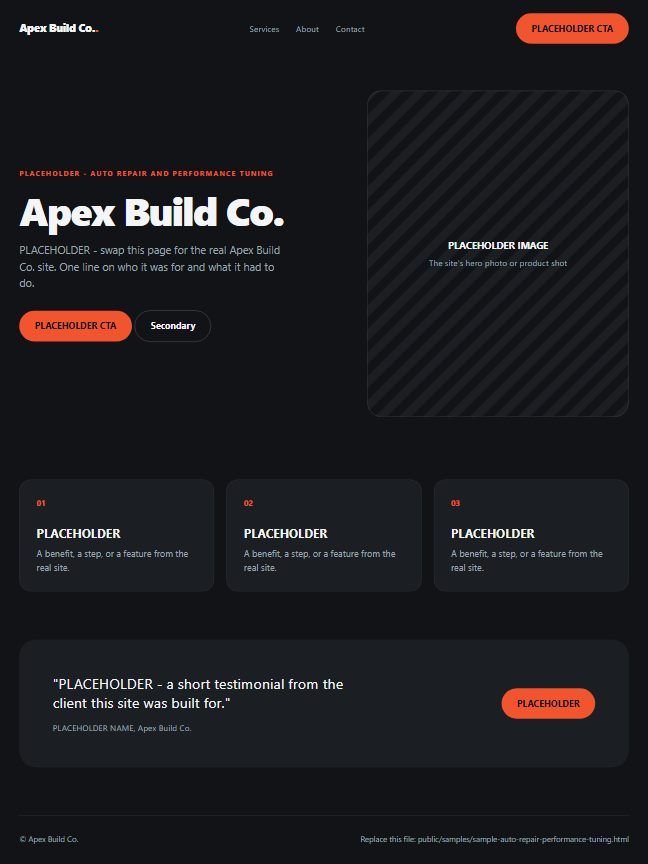
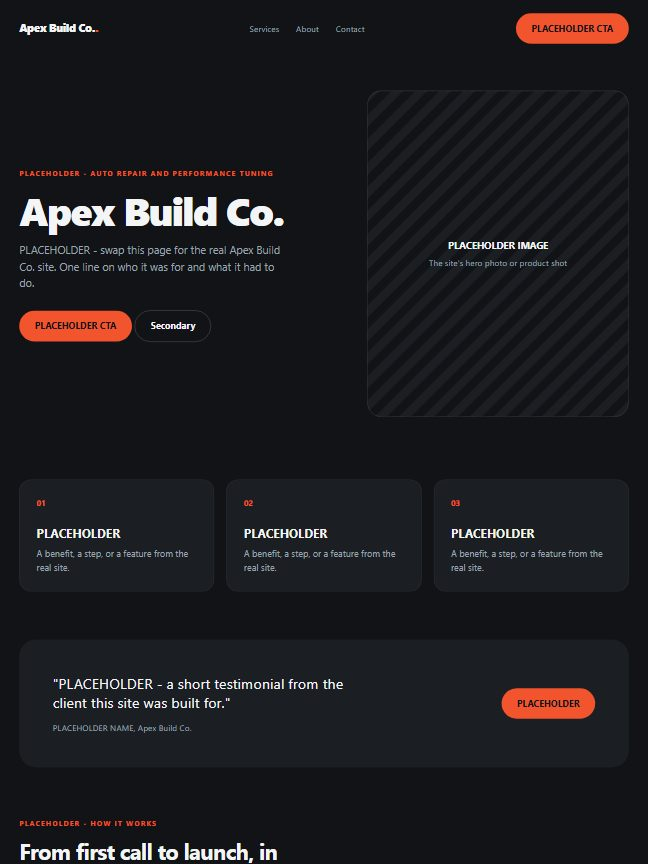
feat: longer sample pages and a tall screenshot of each for the Funnels card
make-sites.mjs adds process, services, work, pricing, FAQ and a closing band,
so each stand-in page runs about three and a half screens. make-thumbs.mjs
also writes thumbs/tall/ (the page up to four screens, 432px wide), and
every Site carries its `tall` path.

Changed region(s): [[0.0309, 0.9375, 0.4321, 1.0], [0.5556, 0.9688, 0.8951, 1.0], [0.9259, 0.9688, 0.9568, 1.0]]

diff --git a/public/samples/sample-auto-repair-performance-tuning.html b/public/samples/sample-auto-repair-performance-tuning.html
@@ -25,8 +25,19 @@ p.lede{font-size:18px;color:#9AA3AE;max-width:46ch;margin:22px 0 32px}
 .band{background:#1B1F24;border-radius:28px;padding:56px;display:grid;grid-template-columns:1fr auto;gap:32px;align-items:center;margin-bottom:80px}
 .quote{font-size:24px;line-height:1.35;max-width:40ch}
 .who{margin-top:16px;color:#9AA3AE;font-size:14px}
+.sec{padding:0 0 80px}
+.sec h2{font-size:clamp(28px,3.4vw,40px);letter-spacing:-.03em;line-height:1.1;margin-bottom:28px;max-width:22ch}
+.steps{display:grid;grid-template-columns:repeat(4,1fr);gap:16px}
+.split{display:grid;grid-template-columns:1fr 1fr;gap:20px}
+.split .shot{aspect-ratio:16/10}
+.tiers{display:grid;grid-template-columns:repeat(3,1fr);gap:20px}
+.tier .price{font-size:34px;font-weight:800;letter-spacing:-.03em;margin:10px 0 14px}
+.tier ul{list-style:none;color:#9AA3AE;font-size:15px;display:grid;gap:8px;margin-bottom:24px}
+.tier--main{border-color:#F2542D}
+.faq{display:grid;gap:12px;max-width:760px}
+.faq .card h3{font-size:17px}
 footer{border-top:1px solid #9AA3AE33;padding:28px 0 40px;color:#9AA3AE;font-size:13px;display:flex;justify-content:space-between}
-@media (max-width:760px){.hero,.band{grid-template-columns:1fr}.row{grid-template-columns:1fr}.links{display:none}}
+@media (max-width:760px){.hero,.band,.split{grid-template-columns:1fr}.row,.steps,.tiers{grid-template-columns:1fr}.links{display:none}}
 </style></head>
 <body><div class="wrap">
 <nav><span class="logo">Apex Build Co.<b>.</b></span>
@@ -41,5 +52,17 @@ footer{border-top:1px solid #9AA3AE33;padding:28px 0 40px;color:#9AA3AE;font-siz
 <div class="row"><div class="card"><div class="n">01</div><h3>PLACEHOLDER</h3><p>A benefit, a step, or a feature from the real site.</p></div><div class="card"><div class="n">02</div><h3>PLACEHOLDER</h3><p>A benefit, a step, or a feature from the real site.</p></div><div class="card"><div class="n">03</div><h3>PLACEHOLDER</h3><p>A benefit, a step, or a feature from the real site.</p></div></div>
 <div class="band"><div><p class="quote">"PLACEHOLDER - a short testimonial from the client this site was built for."</p>
 <p class="who">PLACEHOLDER NAME, Apex Build Co.</p></div><a class="btn" href="#">PLACEHOLDER</a></div>
+<section class="sec"><span class="tag">PLACEHOLDER - How it works</span><h2>From first call to launch, in four steps.</h2>
+<div class="steps"><div class="card"><div class="n">01</div><h3>Discover</h3><p>PLACEHOLDER - what happens at this step.</p></div><div class="card"><div class="n">02</div><h3>Plan</h3><p>PLACEHOLDER - what happens at this step.</p></div><div class="card"><div class="n">03</div><h3>Build</h3><p>PLACEHOLDER - what happens at this step.</p></div><div class="card"><div class="n">04</div><h3>Launch</h3><p>PLACEHOLDER - what happens at this step.</p></div></div></section>
+<section class="sec"><span class="tag">PLACEHOLDER - Services</span><h2>What Apex Build Co. offers.</h2>
+<div class="split"><div class="shot"><div><strong>PLACEHOLDER IMAGE</strong>A service photo</div></div>
+<div class="shot"><div><strong>PLACEHOLDER IMAGE</strong>Another service photo</div></div></div></section>
+<section class="sec"><span class="tag">PLACEHOLDER - Recent work</span><h2>Projects Apex Build Co. is proud of.</h2>
+<div class="row" style="padding:0"><div class="shot"><div><strong>PLACEHOLDER IMAGE</strong>Project photo 01</div></div><div class="shot"><div><strong>PLACEHOLDER IMAGE</strong>Project photo 02</div></div><div class="shot"><div><strong>PLACEHOLDER IMAGE</strong>Project photo 03</div></div></div></section>
+<section class="sec"><span class="tag">PLACEHOLDER - Pricing</span><h2>Simple, clear pricing.</h2>
+<div class="tiers"><div class="card tier"><h3>Starter</h3><div class="price">$PLACEHOLDER</div><ul><li>PLACEHOLDER feature</li><li>PLACEHOLDER feature</li><li>PLACEHOLDER feature</li></ul><a class="btn btn--ghost" href="#">Choose</a></div><div class="card tier tier--main"><h3>Standard</h3><div class="price">$PLACEHOLDER</div><ul><li>PLACEHOLDER feature</li><li>PLACEHOLDER feature</li><li>PLACEHOLDER feature</li></ul><a class="btn" href="#">Choose</a></div><div class="card tier"><h3>Premium</h3><div class="price">$PLACEHOLDER</div><ul><li>PLACEHOLDER feature</li><li>PLACEHOLDER feature</li><li>PLACEHOLDER feature</li></ul><a class="btn btn--ghost" href="#">Choose</a></div></div></section>
+<section class="sec"><span class="tag">PLACEHOLDER - Questions</span><h2>Frequently asked.</h2>
+<div class="faq"><div class="card"><h3>PLACEHOLDER - a question clients ask?</h3><p>PLACEHOLDER - the short, honest answer.</p></div><div class="card"><h3>PLACEHOLDER - a question clients ask?</h3><p>PLACEHOLDER - the short, honest answer.</p></div><div class="card"><h3>PLACEHOLDER - a question clients ask?</h3><p>PLACEHOLDER - the short, honest answer.</p></div><div class="card"><h3>PLACEHOLDER - a question clients ask?</h3><p>PLACEHOLDER - the short, honest answer.</p></div></div></section>
+<div class="band"><div><p class="quote">PLACEHOLDER - the closing call to action.</p><p class="who">Apex Build Co.</p></div><a class="btn" href="#">PLACEHOLDER CTA</a></div>
 <footer><span>&copy; Apex Build Co.</span><span>Replace this file: public/samples/sample-auto-repair-performance-tuning.html</span></footer>
 </div></body></html>

diff --git a/public/samples/sample-therapy-clinic.html b/public/samples/sample-therapy-clinic.html
@@ -25,8 +25,19 @@ p.lede{font-size:18px;color:#6A7C77;max-width:46ch;margin:22px 0 32px}
 .band{background:#FFFFFF;border-radius:28px;padding:56px;display:grid;grid-template-columns:1fr auto;gap:32px;align-items:center;margin-bottom:80px}
 .quote{font-size:24px;line-height:1.35;max-width:40ch}
 .who{margin-top:16px;color:#6A7C77;font-size:14px}
+.sec{padding:0 0 80px}
+.sec h2{font-size:clamp(28px,3.4vw,40px);letter-spacing:-.03em;line-height:1.1;margin-bottom:28px;max-width:22ch}
+.steps{display:grid;grid-template-columns:repeat(4,1fr);gap:16px}
+.split{display:grid;grid-template-columns:1fr 1fr;gap:20px}
+.split .shot{aspect-ratio:16/10}
+.tiers{display:grid;grid-template-columns:repeat(3,1fr);gap:20px}
+.tier .price{font-size:34px;font-weight:800;letter-spacing:-.03em;margin:10px 0 14px}
+.tier ul{list-style:none;color:#6A7C77;font-size:15px;display:grid;gap:8px;margin-bottom:24px}
+.tier--main{border-color:#3C8D7A}
+.faq{display:grid;gap:12px;max-width:760px}
+.faq .card h3{font-size:17px}
 footer{border-top:1px solid #6A7C7733;padding:28px 0 40px;color:#6A7C77;font-size:13px;display:flex;justify-content:space-between}
-@media (max-width:760px){.hero,.band{grid-template-columns:1fr}.row{grid-template-columns:1fr}.links{display:none}}
+@media (max-width:760px){.hero,.band,.split{grid-template-columns:1fr}.row,.steps,.tiers{grid-template-columns:1fr}.links{display:none}}
 </style></head>
 <body><div class="wrap">
 <nav><span class="logo">One Hour Therapy<b>.</b></span>
@@ -41,5 +52,17 @@ footer{border-top:1px solid #6A7C7733;padding:28px 0 40px;color:#6A7C77;font-siz
 <div class="row"><div class="card"><div class="n">01</div><h3>PLACEHOLDER</h3><p>A benefit, a step, or a feature from the real site.</p></div><div class="card"><div class="n">02</div><h3>PLACEHOLDER</h3><p>A benefit, a step, or a feature from the real site.</p></div><div class="card"><div class="n">03</div><h3>PLACEHOLDER</h3><p>A benefit, a step, or a feature from the real site.</p></div></div>
 <div class="band"><div><p class="quote">"PLACEHOLDER - a short testimonial from the client this site was built for."</p>
 <p class="who">PLACEHOLDER NAME, One Hour Therapy</p></div><a class="btn" href="#">PLACEHOLDER</a></div>
+<section class="sec"><span class="tag">PLACEHOLDER - How it works</span><h2>From first call to launch, in four steps.</h2>
+<div class="steps"><div class="card"><div class="n">01</div><h3>Discover</h3><p>PLACEHOLDER - what happens at this step.</p></div><div class="card"><div class="n">02</div><h3>Plan</h3><p>PLACEHOLDER - what happens at this step.</p></div><div class="card"><div class="n">03</div><h3>Build</h3><p>PLACEHOLDER - what happens at this step.</p></div><div class="card"><div class="n">04</div><h3>Launch</h3><p>PLACEHOLDER - what happens at this step.</p></div></div></section>
+<section class="sec"><span class="tag">PLACEHOLDER - Services</span><h2>What One Hour Therapy offers.</h2>
+<div class="split"><div class="shot"><div><strong>PLACEHOLDER IMAGE</strong>A service photo</div></div>
+<div class="shot"><div><strong>PLACEHOLDER IMAGE</strong>Another service photo</div></div></div></section>
+<section class="sec"><span class="tag">PLACEHOLDER - Recent work</span><h2>Projects One Hour Therapy is proud of.</h2>
+<div class="row" style="padding:0"><div class="shot"><div><strong>PLACEHOLDER IMAGE</strong>Project photo 01</div></div><div class="shot"><div><strong>PLACEHOLDER IMAGE</strong>Project photo 02</div></div><div class="shot"><div><strong>PLACEHOLDER IMAGE</strong>Project photo 03</div></div></div></section>
+<section class="sec"><span class="tag">PLACEHOLDER - Pricing</span><h2>Simple, clear pricing.</h2>
+<div class="tiers"><div class="card tier"><h3>Starter</h3><div class="price">$PLACEHOLDER</div><ul><li>PLACEHOLDER feature</li><li>PLACEHOLDER feature</li><li>PLACEHOLDER feature</li></ul><a class="btn btn--ghost" href="#">Choose</a></div><div class="card tier tier--main"><h3>Standard</h3><div class="price">$PLACEHOLDER</div><ul><li>PLACEHOLDER feature</li><li>PLACEHOLDER feature</li><li>PLACEHOLDER feature</li></ul><a class="btn" href="#">Choose</a></div><div class="card tier"><h3>Premium</h3><div class="price">$PLACEHOLDER</div><ul><li>PLACEHOLDER feature</li><li>PLACEHOLDER feature</li><li>PLACEHOLDER feature</li></ul><a class="btn btn--ghost" href="#">Choose</a></div></div></section>
+<section class="sec"><span class="tag">PLACEHOLDER - Questions</span><h2>Frequently asked.</h2>
+<div class="faq"><div class="card"><h3>PLACEHOLDER - a question clients ask?</h3><p>PLACEHOLDER - the short, honest answer.</p></div><div class="card"><h3>PLACEHOLDER - a question clients ask?</h3><p>PLACEHOLDER - the short, honest answer.</p></div><div class="card"><h3>PLACEHOLDER - a question clients ask?</h3><p>PLACEHOLDER - the short, honest answer.</p></div><div class="card"><h3>PLACEHOLDER - a question clients ask?</h3><p>PLACEHOLDER - the short, honest answer.</p></div></div></section>
+<div class="band"><div><p class="quote">PLACEHOLDER - the closing call to action.</p><p class="who">One Hour Therapy</p></div><a class="btn" href="#">PLACEHOLDER CTA</a></div>
 <footer><span>&copy; One Hour Therapy</span><span>Replace this file: public/samples/sample-therapy-clinic.html</span></footer>
 </div></body></html>

diff --git a/public/samples/sample-moving-company.html b/public/samples/sample-moving-company.html
@@ -25,8 +25,19 @@ p.lede{font-size:18px;color:#667085;max-width:46ch;margin:22px 0 32px}
 .band{background:#F2F5FA;border-radius:28px;padding:56px;display:grid;grid-template-columns:1fr auto;gap:32px;align-items:center;margin-bottom:80px}
 .quote{font-size:24px;line-height:1.35;max-width:40ch}
 .who{margin-top:16px;color:#667085;font-size:14px}
+.sec{padding:0 0 80px}
+.sec h2{font-size:clamp(28px,3.4vw,40px);letter-spacing:-.03em;line-height:1.1;margin-bottom:28px;max-width:22ch}
+.steps{display:grid;grid-template-columns:repeat(4,1fr);gap:16px}
+.split{display:grid;grid-template-columns:1fr 1fr;gap:20px}
+.split .shot{aspect-ratio:16/10}
+.tiers{display:grid;grid-template-columns:repeat(3,1fr);gap:20px}
+.tier .price{font-size:34px;font-weight:800;letter-spacing:-.03em;margin:10px 0 14px}
+.tier ul{list-style:none;color:#667085;font-size:15px;display:grid;gap:8px;margin-bottom:24px}
+.tier--main{border-color:#1F6FEB}
+.faq{display:grid;gap:12px;max-width:760px}
+.faq .card h3{font-size:17px}
 footer{border-top:1px solid #66708533;padding:28px 0 40px;color:#667085;font-size:13px;display:flex;justify-content:space-between}
-@media (max-width:760px){.hero,.band{grid-template-columns:1fr}.row{grid-template-columns:1fr}.links{display:none}}
+@media (max-width:760px){.hero,.band,.split{grid-template-columns:1fr}.row,.steps,.tiers{grid-template-columns:1fr}.links{display:none}}
 </style></head>
 <body><div class="wrap">
 <nav><span class="logo">Trusted Mover<b>.</b></span>
@@ -41,5 +52,17 @@ footer{border-top:1px solid #66708533;padding:28px 0 40px;color:#667085;font-siz
 <div class="row"><div class="card"><div class="n">01</div><h3>PLACEHOLDER</h3><p>A benefit, a step, or a feature from the real site.</p></div><div class="card"><div class="n">02</div><h3>PLACEHOLDER</h3><p>A benefit, a step, or a feature from the real site.</p></div><div class="card"><div class="n">03</div><h3>PLACEHOLDER</h3><p>A benefit, a step, or a feature from the real site.</p></div></div>
 <div class="band"><div><p class="quote">"PLACEHOLDER - a short testimonial from the client this site was built for."</p>
 <p class="who">PLACEHOLDER NAME, Trusted Mover</p></div><a class="btn" href="#">PLACEHOLDER</a></div>
+<section class="sec"><span class="tag">PLACEHOLDER - How it works</span><h2>From first call to launch, in four steps.</h2>
+<div class="steps"><div class="card"><div class="n">01</div><h3>Discover</h3><p>PLACEHOLDER - what happens at this step.</p></div><div class="card"><div class="n">02</div><h3>Plan</h3><p>PLACEHOLDER - what happens at this step.</p></div><div class="card"><div class="n">03</div><h3>Build</h3><p>PLACEHOLDER - what happens at this step.</p></div><div class="card"><div class="n">04</div><h3>Launch</h3><p>PLACEHOLDER - what happens at this step.</p></div></div></section>
+<section class="sec"><span class="tag">PLACEHOLDER - Services</span><h2>What Trusted Mover offers.</h2>
+<div class="split"><div class="shot"><div><strong>PLACEHOLDER IMAGE</strong>A service photo</div></div>
+<div class="shot"><div><strong>PLACEHOLDER IMAGE</strong>Another service photo</div></div></div></section>
+<section class="sec"><span class="tag">PLACEHOLDER - Recent work</span><h2>Projects Trusted Mover is proud of.</h2>
+<div class="row" style="padding:0"><div class="shot"><div><strong>PLACEHOLDER IMAGE</strong>Project photo 01</div></div><div class="shot"><div><strong>PLACEHOLDER IMAGE</strong>Project photo 02</div></div><div class="shot"><div><strong>PLACEHOLDER IMAGE</strong>Project photo 03</div></div></div></section>
+<section class="sec"><span class="tag">PLACEHOLDER - Pricing</span><h2>Simple, clear pricing.</h2>
+<div class="tiers"><div class="card tier"><h3>Starter</h3><div class="price">$PLACEHOLDER</div><ul><li>PLACEHOLDER feature</li><li>PLACEHOLDER feature</li><li>PLACEHOLDER feature</li></ul><a class="btn btn--ghost" href="#">Choose</a></div><div class="card tier tier--main"><h3>Standard</h3><div class="price">$PLACEHOLDER</div><ul><li>PLACEHOLDER feature</li><li>PLACEHOLDER feature</li><li>PLACEHOLDER feature</li></ul><a class="btn" href="#">Choose</a></div><div class="card tier"><h3>Premium</h3><div class="price">$PLACEHOLDER</div><ul><li>PLACEHOLDER feature</li><li>PLACEHOLDER feature</li><li>PLACEHOLDER feature</li></ul><a class="btn btn--ghost" href="#">Choose</a></div></div></section>
+<section class="sec"><span class="tag">PLACEHOLDER - Questions</span><h2>Frequently asked.</h2>
+<div class="faq"><div class="card"><h3>PLACEHOLDER - a question clients ask?</h3><p>PLACEHOLDER - the short, honest answer.</p></div><div class="card"><h3>PLACEHOLDER - a question clients ask?</h3><p>PLACEHOLDER - the short, honest answer.</p></div><div class="card"><h3>PLACEHOLDER - a question clients ask?</h3><p>PLACEHOLDER - the short, honest answer.</p></div><div class="card"><h3>PLACEHOLDER - a question clients ask?</h3><p>PLACEHOLDER - the short, honest answer.</p></div></div></section>
+<div class="band"><div><p class="quote">PLACEHOLDER - the closing call to action.</p><p class="who">Trusted Mover</p></div><a class="btn" href="#">PLACEHOLDER CTA</a></div>
 <footer><span>&copy; Trusted Mover</span><span>Replace this file: public/samples/sample-moving-company.html</span></footer>
 </div></body></html>

diff --git a/public/samples/sample-utility-contractor.html b/public/samples/sample-utility-contractor.html
@@ -25,8 +25,19 @@ p.lede{font-size:18px;color:#6B7565;max-width:46ch;margin:22px 0 32px}
 .band{background:#FFFFFF;border-radius:28px;padding:56px;display:grid;grid-template-columns:1fr auto;gap:32px;align-items:center;margin-bottom:80px}
 .quote{font-size:24px;line-height:1.35;max-width:40ch}
 .who{margin-top:16px;color:#6B7565;font-size:14px}
+.sec{padding:0 0 80px}
+.sec h2{font-size:clamp(28px,3.4vw,40px);letter-spacing:-.03em;line-height:1.1;margin-bottom:28px;max-width:22ch}
+.steps{display:grid;grid-template-columns:repeat(4,1fr);gap:16px}
+.split{display:grid;grid-template-columns:1fr 1fr;gap:20px}
+.split .shot{aspect-ratio:16/10}
+.tiers{display:grid;grid-template-columns:repeat(3,1fr);gap:20px}
+.tier .price{font-size:34px;font-weight:800;letter-spacing:-.03em;margin:10px 0 14px}
+.tier ul{list-style:none;color:#6B7565;font-size:15px;display:grid;gap:8px;margin-bottom:24px}
+.tier--main{border-color:#C98A00}
+.faq{display:grid;gap:12px;max-width:760px}
+.faq .card h3{font-size:17px}
 footer{border-top:1px solid #6B756533;padding:28px 0 40px;color:#6B7565;font-size:13px;display:flex;justify-content:space-between}
-@media (max-width:760px){.hero,.band{grid-template-columns:1fr}.row{grid-template-columns:1fr}.links{display:none}}
+@media (max-width:760px){.hero,.band,.split{grid-template-columns:1fr}.row,.steps,.tiers{grid-template-columns:1fr}.links{display:none}}
 </style></head>
 <body><div class="wrap">
 <nav><span class="logo">Below Ground<b>.</b></span>
@@ -41,5 +52,17 @@ footer{border-top:1px solid #6B756533;padding:28px 0 40px;color:#6B7565;font-siz
 <div class="row"><div class="card"><div class="n">01</div><h3>PLACEHOLDER</h3><p>A benefit, a step, or a feature from the real site.</p></div><div class="card"><div class="n">02</div><h3>PLACEHOLDER</h3><p>A benefit, a step, or a feature from the real site.</p></div><div class="card"><div class="n">03</div><h3>PLACEHOLDER</h3><p>A benefit, a step, or a feature from the real site.</p></div></div>
 <div class="band"><div><p class="quote">"PLACEHOLDER - a short testimonial from the client this site was built for."</p>
 <p class="who">PLACEHOLDER NAME, Below Ground</p></div><a class="btn" href="#">PLACEHOLDER</a></div>
+<section class="sec"><span class="tag">PLACEHOLDER - How it works</span><h2>From first call to launch, in four steps.</h2>
+<div class="steps"><div class="card"><div class="n">01</div><h3>Discover</h3><p>PLACEHOLDER - what happens at this step.</p></div><div class="card"><div class="n">02</div><h3>Plan</h3><p>PLACEHOLDER - what happens at this step.</p></div><div class="card"><div class="n">03</div><h3>Build</h3><p>PLACEHOLDER - what happens at this step.</p></div><div class="card"><div class="n">04</div><h3>Launch</h3><p>PLACEHOLDER - what happens at this step.</p></div></div></section>
+<section class="sec"><span class="tag">PLACEHOLDER - Services</span><h2>What Below Ground offers.</h2>
+<div class="split"><div class="shot"><div><strong>PLACEHOLDER IMAGE</strong>A service photo</div></div>
+<div class="shot"><div><strong>PLACEHOLDER IMAGE</strong>Another service photo</div></div></div></section>
+<section class="sec"><span class="tag">PLACEHOLDER - Recent work</span><h2>Projects Below Ground is proud of.</h2>
+<div class="row" style="padding:0"><div class="shot"><div><strong>PLACEHOLDER IMAGE</strong>Project photo 01</div></div><div class="shot"><div><strong>PLACEHOLDER IMAGE</strong>Project photo 02</div></div><div class="shot"><div><strong>PLACEHOLDER IMAGE</strong>Project photo 03</div></div></div></section>
+<section class="sec"><span class="tag">PLACEHOLDER - Pricing</span><h2>Simple, clear pricing.</h2>
+<div class="tiers"><div class="card tier"><h3>Starter</h3><div class="price">$PLACEHOLDER</div><ul><li>PLACEHOLDER feature</li><li>PLACEHOLDER feature</li><li>PLACEHOLDER feature</li></ul><a class="btn btn--ghost" href="#">Choose</a></div><div class="card tier tier--main"><h3>Standard</h3><div class="price">$PLACEHOLDER</div><ul><li>PLACEHOLDER feature</li><li>PLACEHOLDER feature</li><li>PLACEHOLDER feature</li></ul><a class="btn" href="#">Choose</a></div><div class="card tier"><h3>Premium</h3><div class="price">$PLACEHOLDER</div><ul><li>PLACEHOLDER feature</li><li>PLACEHOLDER feature</li><li>PLACEHOLDER feature</li></ul><a class="btn btn--ghost" href="#">Choose</a></div></div></section>
+<section class="sec"><span class="tag">PLACEHOLDER - Questions</span><h2>Frequently asked.</h2>
+<div class="faq"><div class="card"><h3>PLACEHOLDER - a question clients ask?</h3><p>PLACEHOLDER - the short, honest answer.</p></div><div class="card"><h3>PLACEHOLDER - a question clients ask?</h3><p>PLACEHOLDER - the short, honest answer.</p></div><div class="card"><h3>PLACEHOLDER - a question clients ask?</h3><p>PLACEHOLDER - the short, honest answer.</p></div><div class="card"><h3>PLACEHOLDER - a question clients ask?</h3><p>PLACEHOLDER - the short, honest answer.</p></div></div></section>
+<div class="band"><div><p class="quote">PLACEHOLDER - the closing call to action.</p><p class="who">Below Ground</p></div><a class="btn" href="#">PLACEHOLDER CTA</a></div>
 <footer><span>&copy; Below Ground</span><span>Replace this file: public/samples/sample-utility-contractor.html</span></footer>
 </div></body></html>

diff --git a/public/samples/sample-brand-studio.html b/public/samples/sample-brand-studio.html
@@ -25,8 +25,19 @@ p.lede{font-size:18px;color:#7A6F66;max-width:46ch;margin:22px 0 32px}
 .band{background:#FFFFFF;border-radius:28px;padding:56px;display:grid;grid-template-columns:1fr auto;gap:32px;align-items:center;margin-bottom:80px}
 .quote{font-size:24px;line-height:1.35;max-width:40ch}
 .who{margin-top:16px;color:#7A6F66;font-size:14px}
+.sec{padding:0 0 80px}
+.sec h2{font-size:clamp(28px,3.4vw,40px);letter-spacing:-.03em;line-height:1.1;margin-bottom:28px;max-width:22ch}
+.steps{display:grid;grid-template-columns:repeat(4,1fr);gap:16px}
+.split{display:grid;grid-template-columns:1fr 1fr;gap:20px}
+.split .shot{aspect-ratio:16/10}
+.tiers{display:grid;grid-template-columns:repeat(3,1fr);gap:20px}
+.tier .price{font-size:34px;font-weight:800;letter-spacing:-.03em;margin:10px 0 14px}
+.tier ul{list-style:none;color:#7A6F66;font-size:15px;display:grid;gap:8px;margin-bottom:24px}
+.tier--main{border-color:#B4532A}
+.faq{display:grid;gap:12px;max-width:760px}
+.faq .card h3{font-size:17px}
 footer{border-top:1px solid #7A6F6633;padding:28px 0 40px;color:#7A6F66;font-size:13px;display:flex;justify-content:space-between}
-@media (max-width:760px){.hero,.band{grid-template-columns:1fr}.row{grid-template-columns:1fr}.links{display:none}}
+@media (max-width:760px){.hero,.band,.split{grid-template-columns:1fr}.row,.steps,.tiers{grid-template-columns:1fr}.links{display:none}}
 </style></head>
 <body><div class="wrap">
 <nav><span class="logo">Blade Studio<b>.</b></span>
@@ -41,5 +52,17 @@ footer{border-top:1px solid #7A6F6633;padding:28px 0 40px;color:#7A6F66;font-siz
 <div class="row"><div class="card"><div class="n">01</div><h3>PLACEHOLDER</h3><p>A benefit, a step, or a feature from the real site.</p></div><div class="card"><div class="n">02</div><h3>PLACEHOLDER</h3><p>A benefit, a step, or a feature from the real site.</p></div><div class="card"><div class="n">03</div><h3>PLACEHOLDER</h3><p>A benefit, a step, or a feature from the real site.</p></div></div>
 <div class="band"><div><p class="quote">"PLACEHOLDER - a short testimonial from the client this site was built for."</p>
 <p class="who">PLACEHOLDER NAME, Blade Studio</p></div><a class="btn" href="#">PLACEHOLDER</a></div>
+<section class="sec"><span class="tag">PLACEHOLDER - How it works</span><h2>From first call to launch, in four steps.</h2>
+<div class="steps"><div class="card"><div class="n">01</div><h3>Discover</h3><p>PLACEHOLDER - what happens at this step.</p></div><div class="card"><div class="n">02</div><h3>Plan</h3><p>PLACEHOLDER - what happens at this step.</p></div><div class="card"><div class="n">03</div><h3>Build</h3><p>PLACEHOLDER - what happens at this step.</p></div><div class="card"><div class="n">04</div><h3>Launch</h3><p>PLACEHOLDER - what happens at this step.</p></div></div></section>
+<section class="sec"><span class="tag">PLACEHOLDER - Services</span><h2>What Blade Studio offers.</h2>
+<div class="split"><div class="shot"><div><strong>PLACEHOLDER IMAGE</strong>A service photo</div></div>
+<div class="shot"><div><strong>PLACEHOLDER IMAGE</strong>Another service photo</div></div></div></section>
+<section class="sec"><span class="tag">PLACEHOLDER - Recent work</span><h2>Projects Blade Studio is proud of.</h2>
+<div class="row" style="padding:0"><div class="shot"><div><strong>PLACEHOLDER IMAGE</strong>Project photo 01</div></div><div class="shot"><div><strong>PLACEHOLDER IMAGE</strong>Project photo 02</div></div><div class="shot"><div><strong>PLACEHOLDER IMAGE</strong>Project photo 03</div></div></div></section>
+<section class="sec"><span class="tag">PLACEHOLDER - Pricing</span><h2>Simple, clear pricing.</h2>
+<div class="tiers"><div class="card tier"><h3>Starter</h3><div class="price">$PLACEHOLDER</div><ul><li>PLACEHOLDER feature</li><li>PLACEHOLDER feature</li><li>PLACEHOLDER feature</li></ul><a class="btn btn--ghost" href="#">Choose</a></div><div class="card tier tier--main"><h3>Standard</h3><div class="price">$PLACEHOLDER</div><ul><li>PLACEHOLDER feature</li><li>PLACEHOLDER feature</li><li>PLACEHOLDER feature</li></ul><a class="btn" href="#">Choose</a></div><div class="card tier"><h3>Premium</h3><div class="price">$PLACEHOLDER</div><ul><li>PLACEHOLDER feature</li><li>PLACEHOLDER feature</li><li>PLACEHOLDER feature</li></ul><a class="btn btn--ghost" href="#">Choose</a></div></div></section>
+<section class="sec"><span class="tag">PLACEHOLDER - Questions</span><h2>Frequently asked.</h2>
+<div class="faq"><div class="card"><h3>PLACEHOLDER - a question clients ask?</h3><p>PLACEHOLDER - the short, honest answer.</p></div><div class="card"><h3>PLACEHOLDER - a question clients ask?</h3><p>PLACEHOLDER - the short, honest answer.</p></div><div class="card"><h3>PLACEHOLDER - a question clients ask?</h3><p>PLACEHOLDER - the short, honest answer.</p></div><div class="card"><h3>PLACEHOLDER - a question clients ask?</h3><p>PLACEHOLDER - the short, honest answer.</p></div></div></section>
+<div class="band"><div><p class="quote">PLACEHOLDER - the closing call to action.</p><p class="who">Blade Studio</p></div><a class="btn" href="#">PLACEHOLDER CTA</a></div>
 <footer><span>&copy; Blade Studio</span><span>Replace this file: public/samples/sample-brand-studio.html</span></footer>
 </div></body></html>

diff --git a/public/samples/sample-solar-installer.html b/public/samples/sample-solar-installer.html
@@ -25,8 +25,19 @@ p.lede{font-size:18px;color:#77735E;max-width:46ch;margin:22px 0 32px}
 .band{background:#FFFFFF;border-radius:28px;padding:56px;display:grid;grid-template-columns:1fr auto;gap:32px;align-items:center;margin-bottom:80px}
 .quote{font-size:24px;line-height:1.35;max-width:40ch}
 .who{margin-top:16px;color:#77735E;font-size:14px}
+.sec{padding:0 0 80px}
+.sec h2{font-size:clamp(28px,3.4vw,40px);letter-spacing:-.03em;line-height:1.1;margin-bottom:28px;max-width:22ch}
+.steps{display:grid;grid-template-columns:repeat(4,1fr);gap:16px}
+.split{display:grid;grid-template-columns:1fr 1fr;gap:20px}
+.split .shot{aspect-ratio:16/10}
+.tiers{display:grid;grid-template-columns:repeat(3,1fr);gap:20px}
+.tier .price{font-size:34px;font-weight:800;letter-spacing:-.03em;margin:10px 0 14px}
+.tier ul{list-style:none;color:#77735E;font-size:15px;display:grid;gap:8px;margin-bottom:24px}
+.tier--main{border-color:#E08A00}
+.faq{display:grid;gap:12px;max-width:760px}
+.faq .card h3{font-size:17px}
 footer{border-top:1px solid #77735E33;padding:28px 0 40px;color:#77735E;font-size:13px;display:flex;justify-content:space-between}
-@media (max-width:760px){.hero,.band{grid-template-columns:1fr}.row{grid-template-columns:1fr}.links{display:none}}
+@media (max-width:760px){.hero,.band,.split{grid-template-columns:1fr}.row,.steps,.tiers{grid-template-columns:1fr}.links{display:none}}
 </style></head>
 <body><div class="wrap">
 <nav><span class="logo">Solar Field<b>.</b></span>
@@ -41,5 +52,17 @@ footer{border-top:1px solid #77735E33;padding:28px 0 40px;color:#77735E;font-siz
 <div class="row"><div class="card"><div class="n">01</div><h3>PLACEHOLDER</h3><p>A benefit, a step, or a feature from the real site.</p></div><div class="card"><div class="n">02</div><h3>PLACEHOLDER</h3><p>A benefit, a step, or a feature from the real site.</p></div><div class="card"><div class="n">03</div><h3>PLACEHOLDER</h3><p>A benefit, a step, or a feature from the real site.</p></div></div>
 <div class="band"><div><p class="quote">"PLACEHOLDER - a short testimonial from the client this site was built for."</p>
 <p class="who">PLACEHOLDER NAME, Solar Field</p></div><a class="btn" href="#">PLACEHOLDER</a></div>
+<section class="sec"><span class="tag">PLACEHOLDER - How it works</span><h2>From first call to launch, in four steps.</h2>
+<div class="steps"><div class="card"><div class="n">01</div><h3>Discover</h3><p>PLACEHOLDER - what happens at this step.</p></div><div class="card"><div class="n">02</div><h3>Plan</h3><p>PLACEHOLDER - what happens at this step.</p></div><div class="card"><div class="n">03</div><h3>Build</h3><p>PLACEHOLDER - what happens at this step.</p></div><div class="card"><div class="n">04</div><h3>Launch</h3><p>PLACEHOLDER - what happens at this step.</p></div></div></section>
+<section class="sec"><span class="tag">PLACEHOLDER - Services</span><h2>What Solar Field offers.</h2>
+<div class="split"><div class="shot"><div><strong>PLACEHOLDER IMAGE</strong>A service photo</div></div>
+<div class="shot"><div><strong>PLACEHOLDER IMAGE</strong>Another service photo</div></div></div></section>
+<section class="sec"><span class="tag">PLACEHOLDER - Recent work</span><h2>Projects Solar Field is proud of.</h2>
+<div class="row" style="padding:0"><div class="shot"><div><strong>PLACEHOLDER IMAGE</strong>Project photo 01</div></div><div class="shot"><div><strong>PLACEHOLDER IMAGE</strong>Project photo 02</div></div><div class="shot"><div><strong>PLACEHOLDER IMAGE</strong>Project photo 03</div></div></div></section>
+<section class="sec"><span class="tag">PLACEHOLDER - Pricing</span><h2>Simple, clear pricing.</h2>
+<div class="tiers"><div class="card tier"><h3>Starter</h3><div class="price">$PLACEHOLDER</div><ul><li>PLACEHOLDER feature</li><li>PLACEHOLDER feature</li><li>PLACEHOLDER feature</li></ul><a class="btn btn--ghost" href="#">Choose</a></div><div class="card tier tier--main"><h3>Standard</h3><div class="price">$PLACEHOLDER</div><ul><li>PLACEHOLDER feature</li><li>PLACEHOLDER feature</li><li>PLACEHOLDER feature</li></ul><a class="btn" href="#">Choose</a></div><div class="card tier"><h3>Premium</h3><div class="price">$PLACEHOLDER</div><ul><li>PLACEHOLDER feature</li><li>PLACEHOLDER feature</li><li>PLACEHOLDER feature</li></ul><a class="btn btn--ghost" href="#">Choose</a></div></div></section>
+<section class="sec"><span class="tag">PLACEHOLDER - Questions</span><h2>Frequently asked.</h2>
+<div class="faq"><div class="card"><h3>PLACEHOLDER - a question clients ask?</h3><p>PLACEHOLDER - the short, honest answer.</p></div><div class="card"><h3>PLACEHOLDER - a question clients ask?</h3><p>PLACEHOLDER - the short, honest answer.</p></div><div class="card"><h3>PLACEHOLDER - a question clients ask?</h3><p>PLACEHOLDER - the short, honest answer.</p></div><div class="card"><h3>PLACEHOLDER - a question clients ask?</h3><p>PLACEHOLDER - the short, honest answer.</p></div></div></section>
+<div class="band"><div><p class="quote">PLACEHOLDER - the closing call to action.</p><p class="who">Solar Field</p></div><a class="btn" href="#">PLACEHOLDER CTA</a></div>
 <footer><span>&copy; Solar Field</span><span>Replace this file: public/samples/sample-solar-installer.html</span></footer>
 </div></body></html>

diff --git a/public/samples/sample-fintech-funnel.html b/public/samples/sample-fintech-funnel.html
@@ -25,8 +25,19 @@ p.lede{font-size:18px;color:#A3A3C2;max-width:46ch;margin:22px 0 32px}
 .band{background:#161625;border-radius:28px;padding:56px;display:grid;grid-template-columns:1fr auto;gap:32px;align-items:center;margin-bottom:80px}
 .quote{font-size:24px;line-height:1.35;max-width:40ch}
 .who{margin-top:16px;color:#A3A3C2;font-size:14px}
+.sec{padding:0 0 80px}
+.sec h2{font-size:clamp(28px,3.4vw,40px);letter-spacing:-.03em;line-height:1.1;margin-bottom:28px;max-width:22ch}
+.steps{display:grid;grid-template-columns:repeat(4,1fr);gap:16px}
+.split{display:grid;grid-template-columns:1fr 1fr;gap:20px}
+.split .shot{aspect-ratio:16/10}
+.tiers{display:grid;grid-template-columns:repeat(3,1fr);gap:20px}
+.tier .price{font-size:34px;font-weight:800;letter-spacing:-.03em;margin:10px 0 14px}
+.tier ul{list-style:none;color:#A3A3C2;font-size:15px;display:grid;gap:8px;margin-bottom:24px}
+.tier--main{border-color:#7C5CFF}
+.faq{display:grid;gap:12px;max-width:760px}
+.faq .card h3{font-size:17px}
 footer{border-top:1px solid #A3A3C233;padding:28px 0 40px;color:#A3A3C2;font-size:13px;display:flex;justify-content:space-between}
-@media (max-width:760px){.hero,.band{grid-template-columns:1fr}.row{grid-template-columns:1fr}.links{display:none}}
+@media (max-width:760px){.hero,.band,.split{grid-template-columns:1fr}.row,.steps,.tiers{grid-template-columns:1fr}.links{display:none}}
 </style></head>
 <body><div class="wrap">
 <nav><span class="logo">Payline<b>.</b></span>
@@ -41,5 +52,17 @@ footer{border-top:1px solid #A3A3C233;padding:28px 0 40px;color:#A3A3C2;font-siz
 <div class="row"><div class="card"><div class="n">01</div><h3>PLACEHOLDER</h3><p>A benefit, a step, or a feature from the real site.</p></div><div class="card"><div class="n">02</div><h3>PLACEHOLDER</h3><p>A benefit, a step, or a feature from the real site.</p></div><div class="card"><div class="n">03</div><h3>PLACEHOLDER</h3><p>A benefit, a step, or a feature from the real site.</p></div></div>
 <div class="band"><div><p class="quote">"PLACEHOLDER - a short testimonial from the client this site was built for."</p>
 <p class="who">PLACEHOLDER NAME, Payline</p></div><a class="btn" href="#">PLACEHOLDER</a></div>
+<section class="sec"><span class="tag">PLACEHOLDER - How it works</span><h2>From first call to launch, in four steps.</h2>
+<div class="steps"><div class="card"><div class="n">01</div><h3>Discover</h3><p>PLACEHOLDER - what happens at this step.</p></div><div class="card"><div class="n">02</div><h3>Plan</h3><p>PLACEHOLDER - what happens at this step.</p></div><div class="card"><div class="n">03</div><h3>Build</h3><p>PLACEHOLDER - what happens at this step.</p></div><div class="card"><div class="n">04</div><h3>Launch</h3><p>PLACEHOLDER - what happens at this step.</p></div></div></section>
+<section class="sec"><span class="tag">PLACEHOLDER - Services</span><h2>What Payline offers.</h2>
+<div class="split"><div class="shot"><div><strong>PLACEHOLDER IMAGE</strong>A service photo</div></div>
+<div class="shot"><div><strong>PLACEHOLDER IMAGE</strong>Another service photo</div></div></div></section>
+<section class="sec"><span class="tag">PLACEHOLDER - Recent work</span><h2>Projects Payline is proud of.</h2>
+<div class="row" style="padding:0"><div class="shot"><div><strong>PLACEHOLDER IMAGE</strong>Project photo 01</div></div><div class="shot"><div><strong>PLACEHOLDER IMAGE</strong>Project photo 02</div></div><div class="shot"><div><strong>PLACEHOLDER IMAGE</strong>Project photo 03</div></div></div></section>
+<section class="sec"><span class="tag">PLACEHOLDER - Pricing</span><h2>Simple, clear pricing.</h2>
+<div class="tiers"><div class="card tier"><h3>Starter</h3><div class="price">$PLACEHOLDER</div><ul><li>PLACEHOLDER feature</li><li>PLACEHOLDER feature</li><li>PLACEHOLDER feature</li></ul><a class="btn btn--ghost" href="#">Choose</a></div><div class="card tier tier--main"><h3>Standard</h3><div class="price">$PLACEHOLDER</div><ul><li>PLACEHOLDER feature</li><li>PLACEHOLDER feature</li><li>PLACEHOLDER feature</li></ul><a class="btn" href="#">Choose</a></div><div class="card tier"><h3>Premium</h3><div class="price">$PLACEHOLDER</div><ul><li>PLACEHOLDER feature</li><li>PLACEHOLDER feature</li><li>PLACEHOLDER feature</li></ul><a class="btn btn--ghost" href="#">Choose</a></div></div></section>
+<section class="sec"><span class="tag">PLACEHOLDER - Questions</span><h2>Frequently asked.</h2>
+<div class="faq"><div class="card"><h3>PLACEHOLDER - a question clients ask?</h3><p>PLACEHOLDER - the short, honest answer.</p></div><div class="card"><h3>PLACEHOLDER - a question clients ask?</h3><p>PLACEHOLDER - the short, honest answer.</p></div><div class="card"><h3>PLACEHOLDER - a question clients ask?</h3><p>PLACEHOLDER - the short, honest answer.</p></div><div class="card"><h3>PLACEHOLDER - a question clients ask?</h3><p>PLACEHOLDER - the short, honest answer.</p></div></div></section>
+<div class="band"><div><p class="quote">PLACEHOLDER - the closing call to action.</p><p class="who">Payline</p></div><a class="btn" href="#">PLACEHOLDER CTA</a></div>
 <footer><span>&copy; Payline</span><span>Replace this file: public/samples/sample-fintech-funnel.html</span></footer>
 </div></body></html>

diff --git a/public/samples/sample-law-firm.html b/public/samples/sample-law-firm.html
@@ -25,8 +25,19 @@ p.lede{font-size:18px;color:#93A3B8;max-width:46ch;margin:22px 0 32px}
 .band{background:#172538;border-radius:28px;padding:56px;display:grid;grid-template-columns:1fr auto;gap:32px;align-items:center;margin-bottom:80px}
 .quote{font-size:24px;line-height:1.35;max-width:40ch}
 .who{margin-top:16px;color:#93A3B8;font-size:14px}
+.sec{padding:0 0 80px}
+.sec h2{font-size:clamp(28px,3.4vw,40px);letter-spacing:-.03em;line-height:1.1;margin-bottom:28px;max-width:22ch}
+.steps{display:grid;grid-template-columns:repeat(4,1fr);gap:16px}
+.split{display:grid;grid-template-columns:1fr 1fr;gap:20px}
+.split .shot{aspect-ratio:16/10}
+.tiers{display:grid;grid-template-columns:repeat(3,1fr);gap:20px}
+.tier .price{font-size:34px;font-weight:800;letter-spacing:-.03em;margin:10px 0 14px}
+.tier ul{list-style:none;color:#93A3B8;font-size:15px;display:grid;gap:8px;margin-bottom:24px}
+.tier--main{border-color:#C9A86A}
+.faq{display:grid;gap:12px;max-width:760px}
+.faq .card h3{font-size:17px}
 footer{border-top:1px solid #93A3B833;padding:28px 0 40px;color:#93A3B8;font-size:13px;display:flex;justify-content:space-between}
-@media (max-width:760px){.hero,.band{grid-template-columns:1fr}.row{grid-template-columns:1fr}.links{display:none}}
+@media (max-width:760px){.hero,.band,.split{grid-template-columns:1fr}.row,.steps,.tiers{grid-template-columns:1fr}.links{display:none}}
 </style></head>
 <body><div class="wrap">
 <nav><span class="logo">Baptiste<b>.</b></span>
@@ -41,5 +52,17 @@ footer{border-top:1px solid #93A3B833;padding:28px 0 40px;color:#93A3B8;font-siz
 <div class="row"><div class="card"><div class="n">01</div><h3>PLACEHOLDER</h3><p>A benefit, a step, or a feature from the real site.</p></div><div class="card"><div class="n">02</div><h3>PLACEHOLDER</h3><p>A benefit, a step, or a feature from the real site.</p></div><div class="card"><div class="n">03</div><h3>PLACEHOLDER</h3><p>A benefit, a step, or a feature from the real site.</p></div></div>
 <div class="band"><div><p class="quote">"PLACEHOLDER - a short testimonial from the client this site was built for."</p>
 <p class="who">PLACEHOLDER NAME, Baptiste</p></div><a class="btn" href="#">PLACEHOLDER</a></div>
+<section class="sec"><span class="tag">PLACEHOLDER - How it works</span><h2>From first call to launch, in four steps.</h2>
+<div class="steps"><div class="card"><div class="n">01</div><h3>Discover</h3><p>PLACEHOLDER - what happens at this step.</p></div><div class="card"><div class="n">02</div><h3>Plan</h3><p>PLACEHOLDER - what happens at this step.</p></div><div class="card"><div class="n">03</div><h3>Build</h3><p>PLACEHOLDER - what happens at this step.</p></div><div class="card"><div class="n">04</div><h3>Launch</h3><p>PLACEHOLDER - what happens at this step.</p></div></div></section>
+<section class="sec"><span class="tag">PLACEHOLDER - Services</span><h2>What Baptiste offers.</h2>
+<div class="split"><div class="shot"><div><strong>PLACEHOLDER IMAGE</strong>A service photo</div></div>
+<div class="shot"><div><strong>PLACEHOLDER IMAGE</strong>Another service photo</div></div></div></section>
+<section class="sec"><span class="tag">PLACEHOLDER - Recent work</span><h2>Projects Baptiste is proud of.</h2>
+<div class="row" style="padding:0"><div class="shot"><div><strong>PLACEHOLDER IMAGE</strong>Project photo 01</div></div><div class="shot"><div><strong>PLACEHOLDER IMAGE</strong>Project photo 02</div></div><div class="shot"><div><strong>PLACEHOLDER IMAGE</strong>Project photo 03</div></div></div></section>
+<section class="sec"><span class="tag">PLACEHOLDER - Pricing</span><h2>Simple, clear pricing.</h2>
+<div class="tiers"><div class="card tier"><h3>Starter</h3><div class="price">$PLACEHOLDER</div><ul><li>PLACEHOLDER feature</li><li>PLACEHOLDER feature</li><li>PLACEHOLDER feature</li></ul><a class="btn btn--ghost" href="#">Choose</a></div><div class="card tier tier--main"><h3>Standard</h3><div class="price">$PLACEHOLDER</div><ul><li>PLACEHOLDER feature</li><li>PLACEHOLDER feature</li><li>PLACEHOLDER feature</li></ul><a class="btn" href="#">Choose</a></div><div class="card tier"><h3>Premium</h3><div class="price">$PLACEHOLDER</div><ul><li>PLACEHOLDER feature</li><li>PLACEHOLDER feature</li><li>PLACEHOLDER feature</li></ul><a class="btn btn--ghost" href="#">Choose</a></div></div></section>
+<section class="sec"><span class="tag">PLACEHOLDER - Questions</span><h2>Frequently asked.</h2>
+<div class="faq"><div class="card"><h3>PLACEHOLDER - a question clients ask?</h3><p>PLACEHOLDER - the short, honest answer.</p></div><div class="card"><h3>PLACEHOLDER - a question clients ask?</h3><p>PLACEHOLDER - the short, honest answer.</p></div><div class="card"><h3>PLACEHOLDER - a question clients ask?</h3><p>PLACEHOLDER - the short, honest answer.</p></div><div class="card"><h3>PLACEHOLDER - a question clients ask?</h3><p>PLACEHOLDER - the short, honest answer.</p></div></div></section>
+<div class="band"><div><p class="quote">PLACEHOLDER - the closing call to action.</p><p class="who">Baptiste</p></div><a class="btn" href="#">PLACEHOLDER CTA</a></div>
 <footer><span>&copy; Baptiste</span><span>Replace this file: public/samples/sample-law-firm.html</span></footer>
 </div></body></html>

diff --git a/data/projects.ts b/data/projects.ts
@@ -22,7 +22,8 @@ export type Doc = { kicker: string; title: string; lede: string; stack: Chip[]; 
 export type AgentCard = { title: string; icon: Icon; live: boolean; icons: Icon[]; desc: string; meta: string; tags: string[] }
 export type AgentGroup = { name: string; blurb: string; cards: AgentCard[] }
 export type Screenshot = { src: string; label: string }
-export type Site = { name: string; file: string; src: string; thumb: string }
+/** A sample site: its page, a 3:4 thumbnail, and a tall shot (up to four screens) the Funnels card peeks through. */
+export type Site = { name: string; file: string; src: string; thumb: string; tall: string }
 type Writeup = { view: DocView; kicker: string; title: string; desc: string; icon: Icon; cue: string }
 
 const REEL: Screenshot[] = [
@@ -47,7 +48,10 @@ const SITES: Site[] = [
   ['Trusted Mover', 'sample-moving-company.html'],
   ['Payline', 'sample-fintech-funnel.html'],
   ['Solar Field', 'sample-solar-installer.html'],
-].map(([name, file]) => ({ name, file, src: `/samples/${file}`, thumb: `/samples/thumbs/${file.replace(/\.html$/, '.jpeg')}` }))
+].map(([name, file]) => {
+  const shot = file.replace(/\.html$/, '.jpeg')
+  return { name, file, src: `/samples/${file}`, thumb: `/samples/thumbs/${shot}`, tall: `/samples/thumbs/tall/${shot}` }
+})
 
 const WRITEUPS: Writeup[] = [
   { view: 'support-desk', kicker: 'GOHIGHLEVEL BLUEPRINT', title: 'Support Ticketing System', desc: 'A full support desk inside GoHighLevel. One pipeline, five stages, four branded emails.', icon: LifebuoyIcon, cue: 'READ THE WRITE-UP' },

diff --git a/tests/projects.test.tsx b/tests/projects.test.tsx
@@ -1,4 +1,4 @@
-import { existsSync } from 'node:fs'
+import { existsSync, readFileSync } from 'node:fs'
 import { beforeEach, describe, expect, it, vi } from 'vitest'
 import { fireEvent, render, screen, within } from '@testing-library/react'
 import Board from '@/components/projects/Board'
@@ -33,7 +33,32 @@ describe('Projects data', () => {
       expect(existsSync(`public${s.thumb}`), s.thumb).toBe(true)
     }
   })
+
+  it('has a tall screenshot of every sample page, at least three screens deep, for the card to peek through', () => {
+    for (const s of projects.sitesView.sites) {
+      expect(s.tall).toBe(`/samples/thumbs/tall/${s.file.replace(/\.html$/, '.jpeg')}`)
+      const { width, height } = jpegSize(readFileSync(`public${s.tall}`))
+      expect(width, s.tall).toBe(432)
+      // 1080 x 1440 screens saved at 0.4x: three screens are 1728px.
+      expect(height, s.tall).toBeGreaterThanOrEqual(1728)
+    }
+  })
 })
+
+/** A JPEG's pixel size, from its start-of-frame marker. */
+function jpegSize(b: Buffer) {
+  let i = 2
+  while (i < b.length) {
+    if (b[i] !== 0xff) {
+      i++
+      continue
+    }
+    const m = b[i + 1]
+    if (m >= 0xc0 && m <= 0xc3) return { height: b.readUInt16BE(i + 5), width: b.readUInt16BE(i + 7) }
+    i += 2 + b.readUInt16BE(i + 2)
+  }
+  throw new Error('no JPEG frame')
+}
 
 describe('Board', () => {
   it('links every card to its sub-view by hash, in board order', () => {
